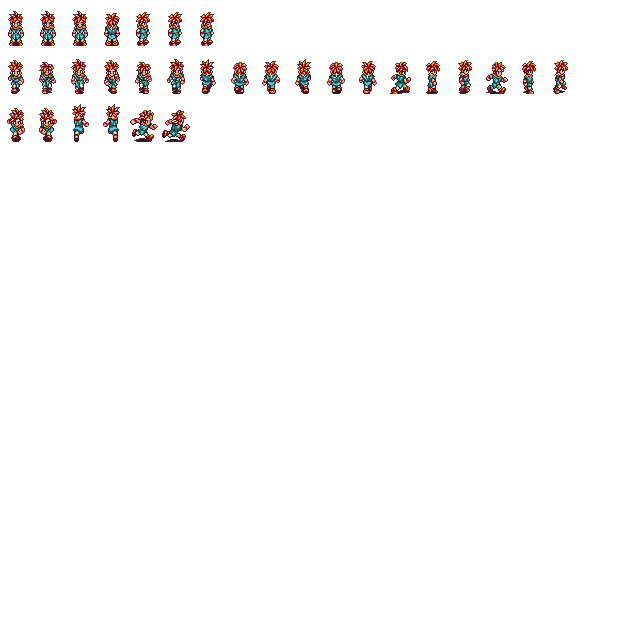
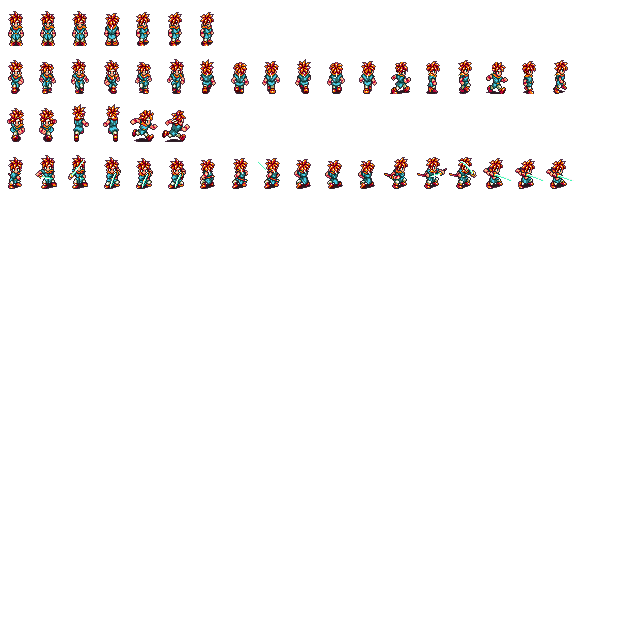
Sprite debug draw bounds

Changed region(s): [[0.5625, 0.25, 0.9062, 0.3125], [0.2188, 0.25, 0.5312, 0.3125], [0.0, 0.25, 0.1875, 0.3125]]

diff --git a/src/system/window.cpp b/src/system/window.cpp
@@ -137,9 +137,9 @@ Window::Window (
     SDL_GL_SetAttribute(SDL_GL_CONTEXT_MINOR_VERSION, MIN_GL_CONTEXT_MINOR);
     SDL_GL_SetAttribute(SDL_GL_CONTEXT_PROFILE_MASK, SDL_GL_CONTEXT_PROFILE_CORE);
 
-    // TODO Handmade goes through srgb, what it is and why it's used.  Make sure to
-    //      look it up to understand what it is.  Also, the SDL port to handmade
-    //      attempts to create a window with it, and if it fails creates one without it.
+    // TODO Add sRGB support
+    //      Look at SDL port of HMH - they attempt to create a window and if it fails
+    //      create one without it.
     SDL_GL_SetAttribute(SDL_GL_FRAMEBUFFER_SRGB_CAPABLE, 1);
 
     // Frame buffer
@@ -158,11 +158,24 @@ Window::Window (
     // Omitting the call allows either.
     SDL_GL_SetAttribute(SDL_GL_ACCELERATED_VISUAL, 1);
 
-    // The forward compatible flag means that no deprecated functionality will be supported.
-    // Can result in a performance gain, and is only for GL 3.0 and later contexts.  Flag is
-    // implementation defined, so it seems to do nothing on os x.
-    // https://wiki.libsdl.org/SDL_GLcontextFlag
-    SDL_GL_SetAttribute(SDL_GL_CONTEXT_FLAGS, SDL_GL_CONTEXT_FORWARD_COMPATIBLE_FLAG);
+    // SDL_GLcontextFlag (https://wiki.libsdl.org/SDL_GLcontextFlag)
+    //
+    // Possible values:
+    //
+    // SDL_GL_CONTEXT_DEBUG_FLAG
+    //     - Put GL in "debug" mode.  Test after KHR_debug is available.
+    // SDL_GL_CONTEXT_FORWARD_COMPATIBLE_FLAG
+    //     - Deprecated functionality disabled.  Can result in a performance gain.
+    // SDL_GL_CONTEXT_ROBUST_ACCESS_FLAG
+    //     - A mode that offers a few APIs that are safer (think snprintf() vs sprintf()).
+    // SDL_GL_CONTEXT_RESET_ISOLATION_FLAG
+    //     - Require GL to make promises about what to do during driver or hardware failure.
+    //
+    // TODO All currently left unset.  I don't believe any have any effect on MacOS, so
+    //      this will have to be researched when I test on another machine or apply
+    //      finally updates their drivers.
+    //
+    // SDL_GL_SetAttribute(SDL_GL_CONTEXT_FLAGS, <flag bitmask>);
 
     // Enable multisampling, which is a type of anti-aliasing.  We create a buffer and set the
     // number of samples per pixel.  Basically the fragment shader is run with vertex data

diff --git a/include/rdge/graphics/sprite.hpp b/include/rdge/graphics/sprite.hpp
@@ -76,6 +76,24 @@ public:
 public:
     SpriteVertices vertices; //!< Array of vertex attribute data
 
+#if RDGE_DEBUG
+    //! \struct sprite_debug_bounds
+    //! \brief Draw a solid colored box underneath the sprite
+    //! \details Provides a visual for the sprite drawing bounds, intended for
+    //!          use with sprites rendered using a partially transparent texture.
+    //!          The bounding box is constructed every frame using the coordinates
+    //!          of the sprite, including the depth value.
+    //! \note Only available in debug builds.
+    //! \warning Enabling increases the submission count, so before use ensure
+    //!          the renderer's capacity can accomodate the extra submission.
+    struct sprite_debug_bounds
+    {
+        bool show = false;                //!< Show the debug bounds
+        color draw_color = color::YELLOW; //!< Color of the debug bounds
+
+    } debug_bounds;
+#endif
+
 private:
     std::shared_ptr<Texture> m_texture; //!< Texture associated with the sprite
 };

diff --git a/tutorials/sandbox/src/scenes/test.hpp b/tutorials/sandbox/src/scenes/test.hpp
@@ -9,7 +9,6 @@
 
 // TODO (ongoing thoughts and interface improvements)
 // - No clear way to pass update/input events to an entity.
-// - Add 'animation' to the spritesheet, so it doesn't have to be defined in code
 // - Add 'hit box' to the spritesheet.  Similar to the hotspot, but each frame
 //   could be have a different size sprite.
 // - Idle animation is a single ping pong, but that's not supported so I added
@@ -88,6 +87,9 @@ struct running_state : public player_state
 //       has been up, but that may be a coincidence.  Could be that SDL gave me
 //       a keyup event and when I queried whether it was pressed it returned
 //       true.  If that's the case I'll have to log the events to verify.
+//     - Another very strange bug that's only happened a couple times...When
+//       first starting the scene the player has a very high velocity.  May be
+//       even higher than his run velocity.
 struct input_handler
 {
     // TODO: Potentially a stop-gap solution:

diff --git a/src/assets/spritesheet.cpp b/src/assets/spritesheet.cpp
@@ -37,10 +37,10 @@ ProcessTexturePart (const json& part, const math::uivec2& surface_size, uint32 s
         throw std::invalid_argument("texture_part \"" + name + "\" expects unsigned");
     }
 
-    auto x    = part["x"].get<uint32>();
-    auto y    = part["y"].get<uint32>();
-    auto w    = part["width"].get<uint32>();
-    auto h    = part["height"].get<uint32>();
+    auto x = part["x"].get<uint32>();
+    auto y = part["y"].get<uint32>();
+    auto w = part["width"].get<uint32>();
+    auto h = part["height"].get<uint32>();
 
     // Validate values are within range
     if ((x + w > surface_size.w) || (y + h > surface_size.h))

diff --git a/src/graphics/sprite.cpp b/src/graphics/sprite.cpp
@@ -57,6 +57,17 @@ Sprite::Draw (SpriteBatch& renderer)
     // makes sure the texture ids match.
     SDL_assert(!m_texture || this->vertices[0].tid == m_texture->unit_id);
 
+#if RDGE_DEBUG
+    if (this->debug_bounds.show)
+    {
+        SpriteVertices bounds;
+        vops::ClonePosition(this->vertices, bounds);
+        vops::SetTexCoords(bounds);
+        vops::SetColor(bounds, this->debug_bounds.draw_color);
+        renderer.Submit(bounds);
+    }
+#endif
+
     renderer.Submit(this->vertices);
 }
 

diff --git a/include/rdge/graphics/vops.hpp b/include/rdge/graphics/vops.hpp
@@ -45,6 +45,15 @@ SetPosition (SpriteVertices& vertices, const math::vec3& pos)
 }
 
 inline void
+ClonePosition (const SpriteVertices& source, SpriteVertices& dest)
+{
+    dest[0].pos = source[0].pos;
+    dest[1].pos = source[1].pos;
+    dest[2].pos = source[2].pos;
+    dest[3].pos = source[3].pos;
+}
+
+inline void
 SetTexCoords (SpriteVertices& vertices, const tex_coords& uvs = tex_coords())
 {
     vertices[0].uv = uvs[0];

diff --git a/tutorials/sandbox/src/scenes/test.cpp b/tutorials/sandbox/src/scenes/test.cpp
@@ -49,6 +49,8 @@ Player::Player (void)
 
 
     this->sprite = sheet.CreateSprite("idle_front_1", vec3(0.f, 0.f, 0.f));
+    this->sprite->debug_bounds.show = true;
+
     this->current_state = this->states[static_cast<uint32>(PlayerStateType::Idle)].get();
 }
 
